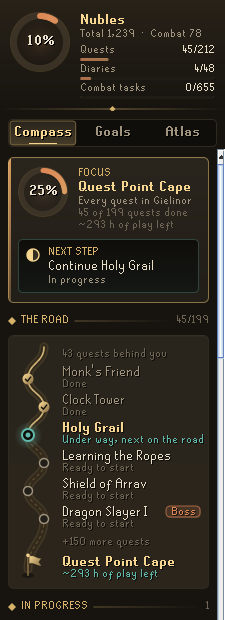
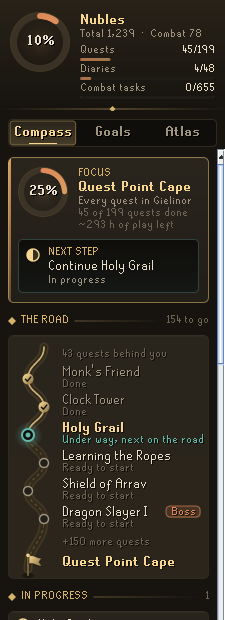
README and screenshots for round 6; a card note clears when goals change; a goal over a year off says so on the card

diff --git a/src/main/java/com/codex/navigator/ui/RoadShare.java b/src/main/java/com/codex/navigator/ui/RoadShare.java
@@ -65,7 +65,8 @@ public final class RoadShare
 
 		/**
 		 * @param player the name to print, or null to leave it off
-		 * @param date the day the goal should be reached ("21 Apr"), or null without Chronicle
+		 * @param date the day the goal should be reached as the card prints it ("~21 Apr", or "Over a year"), or null
+		 *             without Chronicle
 		 * @return the card, or null when the goal has no road to draw (no quests on the way, or already there)
 		 */
 		public static Spec of(Plan plan, Road road, String player, String date, long now, ZoneId zone)
@@ -82,7 +83,7 @@ public final class RoadShare
 			}
 			if (date != null)
 			{
-				tiles.add(new String[]{"~" + date, "at your pace"});
+				tiles.add(new String[]{date, "at your pace"});
 			}
 			String name = player == null || player.trim().isEmpty() ? null : player.trim();
 			return new Spec(name, plan.getTitle(), plan.getSubtitle(), plan.getProgress(), road, tiles, now, zone);

diff --git a/src/main/java/com/codex/navigator/ui/CompassView.java b/src/main/java/com/codex/navigator/ui/CompassView.java
@@ -182,8 +182,13 @@ final class CompassView
 		long now = System.currentTimeMillis();
 		ZoneId zone = ZoneId.systemDefault();
 		PlayTime time = nav.playTime();
-		String date = time == null || plan.getHoursLeft() <= 0 || plan.isAwaitingTasks() ? null
-			: time.dateText(plan.getHoursLeft(), now, zone);
+		String date = null;
+		if (time != null && plan.getHoursLeft() > 0 && !plan.isAwaitingTasks())
+		{
+			// As the flag says it: a day, or over a year off.
+			String day = time.dateText(plan.getHoursLeft(), now, zone);
+			date = day == null ? "Over a year" : "~" + day;
+		}
 		RoadShare.Spec spec = RoadShare.Spec.of(plan, road, nav.cardName(), date, now, zone);
 		if (spec == null || nav.share() == null)
 		{

diff --git a/src/main/java/com/codex/navigator/ui/NavigatorPanel.java b/src/main/java/com/codex/navigator/ui/NavigatorPanel.java
@@ -102,7 +102,12 @@ public class NavigatorPanel extends PluginPanel implements Navigation
 		add(content, BorderLayout.CENTER);
 
 		tabs.onChange(this::showTab);
-		goals.addListener(() -> SwingUtilities.invokeLater(this::refreshViews));
+		goals.addListener(() -> SwingUtilities.invokeLater(() ->
+		{
+			// A note about the last card belongs to the road it was made from.
+			shareNote = null;
+			refreshViews();
+		}));
 		crest.update(account, planner.getData(), planner.capeQuests());
 		refreshViews();
 	}

diff --git a/src/test/java/com/codex/navigator/ui/CohesionTest.java b/src/test/java/com/codex/navigator/ui/CohesionTest.java
@@ -90,7 +90,7 @@ public class CohesionTest
 	{
 		Plan plan = plan(false, 4.5);
 		Road road = Road.of(plan, false, 6);
-		RoadShare.Spec spec = RoadShare.Spec.of(plan, road, "  Nubles ", "3 Nov", 0, ZoneOffset.UTC);
+		RoadShare.Spec spec = RoadShare.Spec.of(plan, road, "  Nubles ", "~3 Nov", 0, ZoneOffset.UTC);
 		assertNotNull(spec);
 		assertEquals("Nubles", spec.heading());
 		List<String> values = new ArrayList<>();

diff --git a/README.md b/README.md
@@ -12,9 +12,10 @@ It is the first plugin in the **Codex** suite: a family of RuneLite plugins that
 
 ## What it does
 
-- **Account crest.** One ring for your whole account, plus ledgers for quests, diaries and combat achievement tasks.
+- **Account crest.** One ring for your whole account, plus ledgers for quests, diaries and combat achievement tasks. Quests are counted as the quest cape counts them (every quest, and the miniquests a quest needs first), so the crest and the cape's page always show the same figure.
 - **Compass.** Your focus goal and its next step, then quests in progress, the **best next** quests and the quests held back by only a little training. Best next puts the quests on the way to your focus first, then those on the way to your other goals, then the rest by how much they open per hour. Every suggestion says about how long it takes.
-- **The road.** Under your focus, the Compass draws the way there as a winding road on an old map: every quest on the way is a stone, gold behind you, a glowing stone for the next one (the same step the focus card names), plain stones ahead and red-rimmed ones still held back, with a Boss or Wildy mark on one life. The goal is a flag at the end with the day you should reach it (with Chronicle) or the play left. A long goal such as the quest cape keeps a window around where you stand and counts the rest. Click a stone to open its quest.
+- **The road.** Under your focus, the Compass draws the way there as a winding road on an old map: every quest on the way is a stone, gold behind you, a glowing stone for the next one (the same step the focus card names), plain stones ahead and red-rimmed ones still held back, with a Boss or Wildy mark on one life. The goal is a flag at the end with the day you should reach it (with Chronicle); the focus card above keeps the play left, and the road's header counts the quests still to go, so no figure is shown twice. A long goal name such as Desert Treasure II's wraps onto two lines at the flag. A long goal such as the quest cape keeps a window around where you stand and counts the rest. Click a stone to open its quest.
+- **Road card.** Save road card (or Copy) under the road makes a picture to share: your name, the goal's kind and how far along it is, quests done, play left and the day at your pace, then the road itself ending at the goal's flag. Turn off "Name on cards" to share it without your name.
 - **Goals.** Pin any quest, diary tier, the quest cape or a level. The first pin is your focus; every goal shows its progress, its next step and about how much play is left. Finished goals move to a Completed list, a line in your chatbox tells you the moment one is done, and each offers the **next in line** (the next diary tier, or the quest it leads into) to pin with one click.
 - **Level goals.** "Aiming for a level?" on the Goals tab opens a skill grid; pick a skill and the Codex offers the levels worth aiming for: the next ones that open a quest or diary tier (in teal, with how many), the next round ten, and 99. A level goal's page lists everything it opens in level order, and whether anything else still holds each quest back. When you reach it, the next round ten is offered to pin.
 - **A date on every goal.** With Codex Session Chronicle installed, the Codex reads how much you have played over the last two weeks and turns each goal's hours of play into a day on the calendar ("Around 3 Nov at your 40 min a day"). Without Chronicle, or with fewer than two sessions in its journal, no date is shown.
@@ -37,6 +38,7 @@ It is the first plugin in the **Codex** suite: a family of RuneLite plugins that
 - **Logged out.** Goals you pin while logged out are added to your account's goals when you next log in.
 
 <p align="center">
+  <img src="docs/screenshots/11-road-card.png" width="300" alt="Road card">
   <img src="docs/screenshots/9-overlay.png" width="300" alt="Focus overlay">
 </p>
 
@@ -83,6 +85,7 @@ Codex Navigator saves two keys per RuneScape profile in the `codexnavigator` con
 | Announce finished goals | On | A chatbox line the moment a pinned goal is complete. |
 | Learn my pace | On | Times training by how fast you really train each skill. Off uses the steady rates. |
 | Hardcore care | On | On a one-life account, marks quests with a deadly fight or a Wilderness trip and suggests them after safer ones. |
+| Name on cards | On | Writes your character's name on the road card. |
 
 ## Data
 
